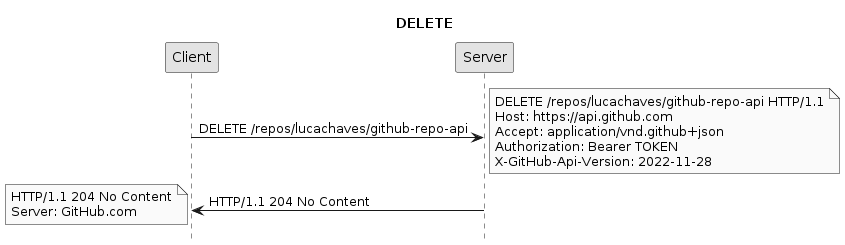
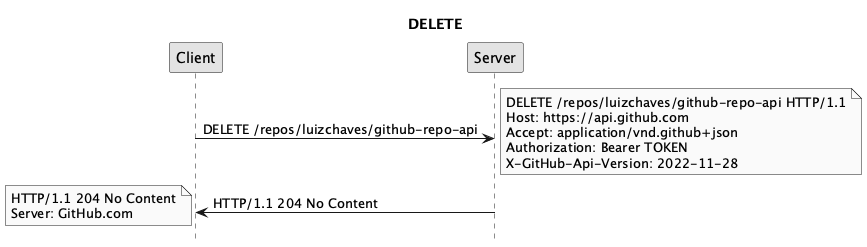
fix: github url

diff --git a/src/consts.ts b/src/consts.ts
@@ -7,7 +7,7 @@ export const SUBJECT = {
   CHAT_URL: 'https://mail.google.com/mail/u/0/#chat/space/AAAAgCdnH8s',
   PROJECTS_URL: 'https://padlet.com/lucachaves/projetols20241',
   GITHUB_URLS: {
-    A: 'https://github.com/lucachaves/ls-2024-1',
+    A: 'https://github.com/luizchaves/ls-2024-1',
   },
   SCHEDULES: [
     {
